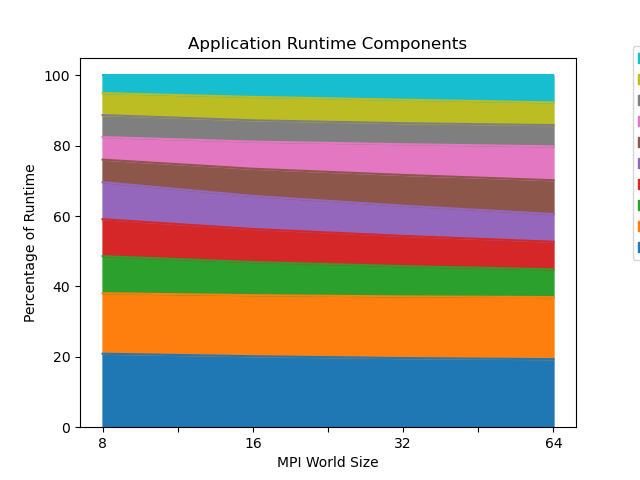
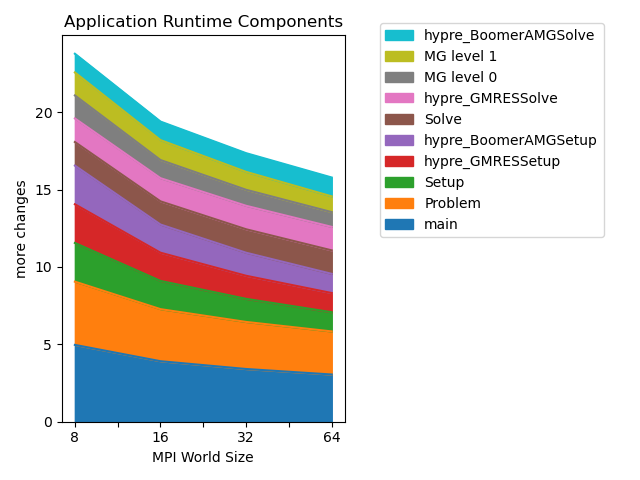
error fixing

diff --git a/examples/python_scripts/stacked_line_graphs.py b/examples/python_scripts/stacked_line_graphs.py
@@ -35,7 +35,7 @@ def arg_parse():
     return args
 
 
-def make_stacked_line_graph(df, value, world_size, y_label):
+def make_stacked_line_graph(df, value, world_size, title, xlabel, y_label):
     fig = plt.figure()
     ax = df[[(i, value) for i in world_size]].T.plot(
         kind="area",
@@ -80,9 +80,9 @@ def process_thickets(input_files, groupby_parameter, filter_prefix, top_ten, out
         ctk.dataframe = ctk.dataframe.nlargest(10, [(world_size[0], "Total time")])
 
     if "perc" in output_graphs:
-        make_stacked_line_graph(ctk.dataframe, "perc", world_size, "Percentage of Runtime" if additional_args.ylabel == "no_label" else additional_args.ylabel)
+        make_stacked_line_graph(ctk.dataframe, "perc", world_size, additional_args.graph_title, additional_args.graph_xlabel, "Percentage of Runtime" if additional_args.graph_ylabel == "no_label" else additional_args.graph_ylabel)
     if "total" in output_graphs:
-        make_stacked_line_graph(ctk.dataframe, "Total time", world_size, "Total Time" if additional_args.ylabel == "no_label" else additional_args.ylabel)
+        make_stacked_line_graph(ctk.dataframe, "Total time", world_size, additional_args.graph_title, additional_args.graph_xlabel, "Total Time" if additional_args.graph_ylabel == "no_label" else additional_args.graph_ylabel)
 
 
 if __name__ == "__main__":
